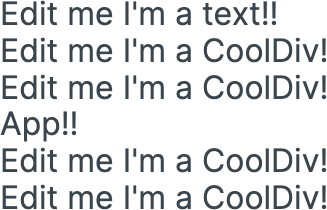
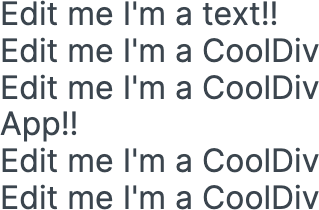
[ecu] Delete component App in App

diff --git a/app/src/App.tsx b/app/src/App.tsx
@@ -26,7 +26,7 @@ function App(props: AppPropsType) {
       
       
       
-      <CoolDiv />
+      
       <CoolDiv />
       
   <Text data-ecu="liPz3SHBxY:1">App!!</Text>
